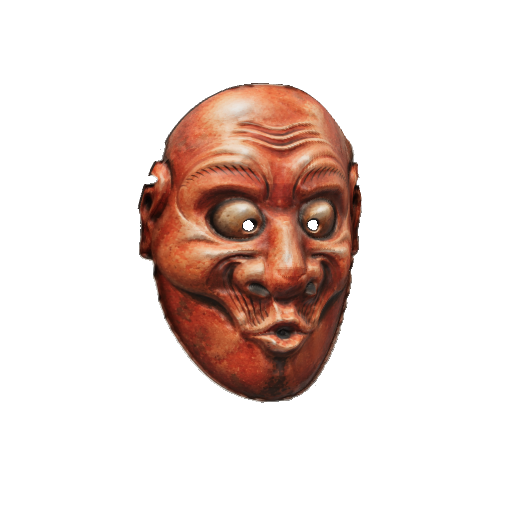
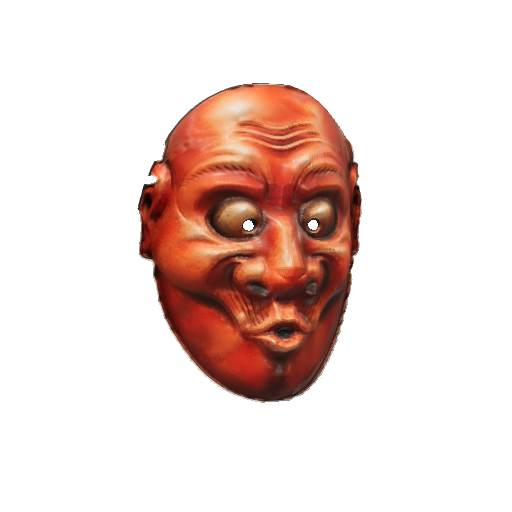
Make all masks clean and sharp: smooth lacquer paint, crisp texture, gloss
- Clean each painting once (tools/clean-refs.html -> assets/clean): an edge-preserving
  guided filter removes watercolour blotches and paper grain, keeps drawn lines sharp,
  and lifts colour back after the filmic tone curve
- Paint texture drawn at 1.5x resolution instead of being resampled
- Noise-free normal and roughness maps for painted masks
- Glossier lacquer clear-coat for crisp highlights
- Kitsune: no dark edge line across the ear bases

diff --git a/js/photo.js b/js/photo.js
@@ -39,6 +39,62 @@ function blur(a, n, r){
   return s;
 }
 
+// A box average of radius r, through a summed-area table (cost does not grow with r).
+function boxMean(src, W, H, r){
+  const S = new Float64Array((W + 1) * (H + 1)), out = new Float32Array(W * H), W1 = W + 1;
+  for (let y = 0; y < H; y++){
+    let row = 0;
+    for (let x = 0; x < W; x++){ row += src[y * W + x]; S[(y + 1) * W1 + x + 1] = S[y * W1 + x + 1] + row; }
+  }
+  for (let y = 0; y < H; y++){
+    const y0 = Math.max(0, y - r), y1 = Math.min(H, y + r + 1);
+    for (let x = 0; x < W; x++){
+      const x0 = Math.max(0, x - r), x1 = Math.min(W, x + r + 1);
+      out[y * W + x] = (S[y1 * W1 + x1] - S[y0 * W1 + x1] - S[y1 * W1 + x0] + S[y0 * W1 + x0]) / ((y1 - y0) * (x1 - x0));
+    }
+  }
+  return out;
+}
+// Cleans the watercolour: an edge-preserving smooth (a guided filter, steered by the
+// painting's own brightness) flattens the blotches and paper grain inside each area of
+// colour but keeps the drawn edges (brows, eye lines, lips, hair strands) sharp; a light
+// unsharp mask then crisps those edges. The paint reads as smooth lacquer, not paper.
+export function cleanPaint(d, W, H, { r = 12, eps = 0.006, sharpen = 0.5, sat = 1.3, gamma = 1.12 } = {}){
+  const n = W * H, I = new Float32Array(n), ch = [new Float32Array(n), new Float32Array(n), new Float32Array(n)];
+  for (let p = 0, o = 0; p < n; p++, o += 4){
+    ch[0][p] = d[o] / 255; ch[1][p] = d[o + 1] / 255; ch[2][p] = d[o + 2] / 255;
+    I[p] = 0.3 * ch[0][p] + 0.55 * ch[1][p] + 0.15 * ch[2][p];
+  }
+  const mI = boxMean(I, W, H, r), II = new Float32Array(n);
+  for (let p = 0; p < n; p++) II[p] = I[p] * I[p];
+  const mII = boxMean(II, W, H, r), t = new Float32Array(n), a = new Float32Array(n), b = new Float32Array(n);
+  for (let c = 0; c < 3; c++){
+    const P = ch[c], mP = boxMean(P, W, H, r);
+    for (let p = 0; p < n; p++) t[p] = I[p] * P[p];
+    const mIP = boxMean(t, W, H, r);
+    for (let p = 0; p < n; p++){
+      const A = (mIP[p] - mI[p] * mP[p]) / (mII[p] - mI[p] * mI[p] + eps);
+      a[p] = A; b[p] = mP[p] - A * mI[p];
+    }
+    const ma = boxMean(a, W, H, r), mb = boxMean(b, W, H, r);
+    for (let p = 0; p < n; p++) t[p] = ma[p] * I[p] + mb[p];
+    const soft = boxMean(t, W, H, 2);
+    for (let p = 0, o = c; p < n; p++, o += 4){
+      const v = t[p] + sharpen * (t[p] - soft[p]);
+      d[o] = v < 0 ? 0 : v > 1 ? 255 : v * 255;
+    }
+  }
+  // the renderer's filmic tone curve greys out bright painted colour; a little more
+  // saturation and depth here brings it back to the painting's warmth on screen
+  for (let p = 0, o = 0; p < n; p++, o += 4){
+    const l = (0.3 * d[o] + 0.55 * d[o + 1] + 0.15 * d[o + 2]) / 255;
+    for (let c = 0; c < 3; c++){
+      const v = Math.pow(Math.max(0, l + (d[o + c] / 255 - l) * sat), gamma);
+      d[o + c] = v > 1 ? 255 : v * 255;
+    }
+  }
+}
+
 // spec: { src, eyes: [[px,py],[px,py]], chin: py (→ chinY cm), top: py, paper: tolerance,
 //         patches: [{ x, y, rx, ry, from: [px,py] }] (paint over bits, e.g. cords), relief: [fine, broad],
 //         clear: [[x0,y0,x1,y1]] (boxes where all paper colour is cut away) }
@@ -56,6 +112,8 @@ export async function loadPhoto(spec){
   }
   // the paper becomes transparent: compare with the paper colour from the corners
   const data = g.getImageData(0, 0, W, H), d = data.data;
+  // the shipped paintings are already cleaned (tools/clean-refs.html); `clean` redoes it live
+  if (spec.clean) cleanPaint(d, W, H, spec.clean === true ? {} : spec.clean);
   const paper = [0, 0, 0];
   for (const [x, y] of [[4, 4], [W - 5, 4], [4, H - 5], [W - 5, H - 5]]){ const o = (y * W + x) * 4; paper[0] += d[o] / 4; paper[1] += d[o + 1] / 4; paper[2] += d[o + 2] / 4; }
   const tol = spec.paper ?? 26;

diff --git a/js/build.js b/js/build.js
@@ -131,6 +131,7 @@ function paint(def, H, O, holes, size){
   const crackF = P.crackScale || 2.2, crackK = P.crack ?? 0.5, grainK = P.grain ?? 0.6;
   const holeT = holes.map((h) => ({ ...h, c: Math.cos(h.rot), s: Math.sin(h.rot) }));
   const R = rng(def.seed);
+  const photo = !!def.photo; // a painted mask: its surface stays clean lacquer, no gesso noise
   for (let py = 0; py < S; py++){
     const y = SPAN / 2 - (py + 0.5) * cm, gv = py * k2g - 0.5;
     for (let px = 0; px < S; px++){
@@ -163,13 +164,23 @@ function paint(def, H, O, holes, size){
       ad[o + 3] = alpha;
       // occlusion, roughness, metalness
       md[o] = 255 * (1 - 0.65 * smooth(0.02, 0.6, ocl));
-      md[o + 1] = Math.min(255, md[o + 1] + 40 * g + 22 * (patch - 0.5) + 30 * w);
+      md[o + 1] = Math.min(255, md[o + 1] + 40 * g + (photo ? 0 : 22 * (patch - 0.5)) + 30 * w);
       // fine relief: wood grain under the paint, crackle, gesso tooth
       const grain = (vnoise(x * 34, y * 1.4, def.seed + 3) - 0.5) * grainK;
-      hgt[py * S + px] = (dd[o] - 128) / 128 + grain * 0.35 - crackLine * 0.5 + (R() - 0.5) * 0.06 * (1 - metal);
+      hgt[py * S + px] = (dd[o] - 128) / 128 + grain * 0.35 - crackLine * 0.5 + (photo ? 0 : (R() - 0.5) * 0.06 * (1 - metal));
     }
   }
   A.g.putImageData(a, 0, 0);
+  // A painted mask keeps the painting's full sharpness: its colour is drawn again at a
+  // higher resolution (the painting itself, the spy-holes cut out), not resampled from S.
+  let albedo = A.c;
+  if (photo){
+    const HS = Math.min(2048, Math.round(S * 1.5)), Hc = canvas2d(HS);
+    def.paint(Hc.g, { H, O });
+    Hc.g.globalCompositeOperation = 'destination-out';
+    for (const h of holeT){ Hc.g.beginPath(); Hc.g.ellipse(h.x, h.y, h.rx, h.ry, h.rot, 0, Math.PI * 2); Hc.g.fill(); }
+    albedo = Hc.c;
+  }
   M.g.putImageData(m, 0, 0);
   // relief → tangent-space normals (y up, as three expects)
   const k = P.bump ?? 3;
@@ -184,11 +195,11 @@ function paint(def, H, O, holes, size){
   const B = document.createElement('canvas');
   B.width = B.height = 512;
   const bg = B.getContext('2d');
-  bg.drawImage(A.c, 0, 0, 512, 512);
+  bg.drawImage(albedo, 0, 0, 512, 512);
   const bd = bg.getImageData(0, 0, 512, 512);
   for (let i = 0; i < bd.data.length; i += 4){ const v = bd.data[i + 3]; bd.data[i] = bd.data[i + 1] = bd.data[i + 2] = v; bd.data[i + 3] = 255; }
   bg.putImageData(bd, 0, 0);
-  return { albedo: A.c, orm: M.c, normal: D.c, alpha: B };
+  return { albedo, orm: M.c, normal: D.c, alpha: B };
 }
 function crackleAt(x, y, seed){
   const ix = Math.floor(x), iy = Math.floor(y);
@@ -296,7 +307,9 @@ export function buildMask(def, { maxAniso = 4, size = TEX } = {}){
   const front = new THREE.MeshPhysicalMaterial({
     map, normalMap: nmap, roughnessMap: orm, metalnessMap: orm, aoMap: orm, aoMapIntensity: 0.85,
     roughness: 1, metalness: 1, alphaTest: 0.5, envMapIntensity: L.env ?? 0.55,
-    clearcoat: L.clearcoat ?? 0.15, clearcoatRoughness: L.ccRough ?? 0.4,
+    // painted masks get a crisp lacquer coat: tight highlights that show the carved form
+    clearcoat: def.photo ? Math.max(L.clearcoat ?? 0, 0.3) : L.clearcoat ?? 0.15,
+    clearcoatRoughness: def.photo ? Math.min(L.ccRough ?? 1, 0.22) : L.ccRough ?? 0.4,
     sheen: L.sheen ?? 0, sheenColor: new THREE.Color(L.sheenColor || '#ffffff'), sheenRoughness: 0.6,
   });
   const back = new THREE.MeshStandardMaterial({ color: L.back || '#2a170c', roughness: 0.5, metalness: 0.05, alphaMap: amap, alphaTest: 0.5 });

diff --git a/js/masks.js b/js/masks.js
@@ -36,9 +36,10 @@ const cheeks = (a = 0.42, x = 3.6, y = -1.3, s = 1.8) => sym(blob(x, y, s, s, a)
 // ------------------------------------------------------------------ the masks
 // Pixel positions below are read off the paintings: the pupils (or, for the masks with
 // close-set painted eyes, the eyes plus an `eyeSpan`), the top of the head and the chin.
-const refSrc = (id) => new URL(`../assets/refs/${id}.jpg`, import.meta.url).href;
+// the paintings as shipped: cleaned of watercolour blotches by tools/clean-refs.html
+const refSrc = (id) => new URL(`../assets/clean/${id}.jpg`, import.meta.url).href;
 const relief = (def) => ({ k: 'fn', fn: (x, y) => def.photoData.relief(x, y) });
-const PHOTO_LOOK = { grimeK: 0.12, wearK: 0, mottle: 0, crack: 0, grain: 0.08, bump: 1.4 };
+const PHOTO_LOOK = { grimeK: 0.12, wearK: 0, mottle: 0, crack: 0, grain: 0, bump: 1.4 };
 // A thin shell standing off the face (a fox ear), painted from the reference where it sits.
 // `flatAt`: take the depth at that x across the whole width, so the part faces forward
 // instead of following the head round (the monkey's ears).
@@ -75,7 +76,15 @@ const KITSUNE = {
     ...sym(blob(3.9, -1.6, 1.7, 1.6, 0.45)),
     blob(0, -7.0, 1.4, 1.4, 0.3),
   ],
-  paint(g){ drawPhoto(g, KITSUNE.photoData); },
+  paint(g){
+    const P = KITSUNE.photoData;
+    drawPhoto(g, P);
+    // above the ear bases the ear parts carry the painting, so the shell's own edge never
+    // cuts across painted ears as a dark line
+    g.save(); g.globalCompositeOperation = 'destination-out'; g.beginPath();
+    for (const [px, py] of [[0, -50], [0, 640], [70, 598], [200, 445], [330, 330], [385, 292], [427, 278], [470, 292], [525, 330], [655, 445], [785, 598], [853, 640], [853, -50]]) g.lineTo(...P.toCm(px, py));
+    g.fill(); g.restore();
+  },
   extras(group, ctx){
     const P = KITSUNE.photoData, mat = photoMaterial(ctx.THREE, P, { roughness: 0.68 });
     for (const s of [1, -1]){ // the ears, from the painting

diff --git a/tools/clean-refs.html b/tools/clean-refs.html
@@ -1,0 +1,26 @@
+<!doctype html>
+<html lang="en"><head><meta charset="utf-8"><meta name="viewport" content="width=device-width,initial-scale=1">
+<title>Noh Masks — clean references</title>
+<style>body{margin:0;padding:12px;background:#ecdfc6;color:#3b2a1c;font:13px/1.5 ui-monospace,Consolas,monospace}</style>
+</head><body>
+<p>Cleans each painting in <code>assets/refs/</code> (edge-preserving smooth, crisp edges, colour lift; <code>js/photo.js</code> cleanPaint) and writes <code>assets/clean/&lt;id&gt;.jpg</code> through <code>tools/serve.ps1</code>. The masks load these.</p>
+<pre id="log"></pre>
+<script type="module">
+import { cleanPaint } from '../js/photo.js';
+const ids = ['kojo', 'chujo', 'koomote', 'hannya', 'buaku', 'usofuki', 'saru', 'kitsune'];
+const log = (s) => { document.getElementById('log').textContent += s + '\n'; };
+for (const id of ids){
+  const img = new Image(); img.src = `../assets/refs/${id}.jpg`;
+  await new Promise((ok, no) => { img.onload = ok; img.onerror = no; });
+  const c = document.createElement('canvas'); c.width = img.naturalWidth; c.height = img.naturalHeight;
+  const g = c.getContext('2d', { willReadFrequently: true }); g.drawImage(img, 0, 0);
+  const data = g.getImageData(0, 0, c.width, c.height);
+  cleanPaint(data.data, c.width, c.height);
+  g.putImageData(data, 0, 0);
+  // toDataURL, not toBlob: toBlob can stall while the tab is in the background
+  const blob = await (await fetch(c.toDataURL('image/jpeg', 0.93))).blob();
+  const res = await fetch(`/__save?name=${encodeURIComponent(`assets/clean/${id}.jpg`)}`, { method: 'POST', body: blob });
+  log(`${id}.jpg ${res.ok ? 'saved' : 'FAILED ' + res.status} (${Math.round(blob.size / 1024)} KB)`);
+}
+window.__done = true;
+</script></body></html>

diff --git a/README.md b/README.md
@@ -37,7 +37,7 @@ same stage. Made for ages 8–14.
 | 07 | **Saru** | 猿 | Kyogen | monkey | an olive fur cap with a widow's peak and fur down the sides, a beige face, red-rimmed round eyes, a split muzzle and a wide smile, red ears |
 | 08 | **Kitsune** | 狐 | Kyogen | fox | weathered cream lacquer, a red flame on the brow, red-lined amber eyes, black whiskers, a black nose, a curling red smile, tall ears with red insides |
 
-The look of each mask follows the reference paintings supplied for this project. **All eight masks are those paintings themselves** (`assets/refs/`): each is lined up so its pupils sit on the wearer's eyes, projected onto the carved shell from the front, and its light and shade carve the shell too, so from the front the mask is the painting and from the side it has depth. The paper is cut away, the cords are painted out, and Hannya's horns, the fox's ears and the monkey's ears are separate solids painted from the same picture (`js/photo.js`). Every fact in the app is sourced in [SOURCES.md](SOURCES.md).
+The look of each mask follows the reference paintings supplied for this project. **All eight masks are those paintings themselves** (`assets/refs/`): each is lined up so its pupils sit on the wearer's eyes, projected onto the carved shell from the front, and its light and shade carve the shell too, so from the front the mask is the painting and from the side it has depth. Before use, each painting is cleaned (`tools/clean-refs.html` → `assets/clean/`): an edge-preserving smooth takes out the watercolour blotches and paper grain while keeping every drawn line sharp, so the paint reads as smooth lacquer. The paper is cut away, the cords are painted out, and Hannya's horns, the fox's ears and the monkey's ears are separate solids painted from the same picture (`js/photo.js`). Every fact in the app is sourced in [SOURCES.md](SOURCES.md).
 
 ### What makes them look real
 
@@ -47,16 +47,17 @@ No 3D model files are downloaded: each mask is built in the browser from its pai
   model), a few millimetres off the skin. The painting's light and shade add relief on
   top, and a few carved features add what a painting cannot: a nose that stands out,
   bulging eyeballs, cheeks and a mouth set back. Spy-holes are cut where the pupils are.
-- **The paint.** The painting is projected onto the shell from the front, with the
-  paper cut away, into a texture set (colour, occlusion, roughness and a normal map).
-  The material uses `MeshPhysicalMaterial` with a light lacquer clear-coat, filmic tone
-  mapping and a studio environment for reflections.
+- **The paint.** The cleaned painting is projected onto the shell from the front, with the
+  paper cut away, at 1.5× the resolution of the other maps so it stays sharp, into a
+  texture set (colour, occlusion, roughness and a noise-free normal map). The material
+  uses `MeshPhysicalMaterial` with a glossy lacquer clear-coat, filmic tone mapping and a
+  studio environment for reflections.
 - **Room light.** Twice a second the camera image is sampled. Exposure and fill light
   then ease toward the room's brightness and colour, so the mask matches your lighting.
 - **Extra parts.** Hannya's horns, the fox's ears and the monkey's ears are separate
   solids, painted from the same picture.
 
-Phones use 896 px textures, so a mask takes about a second to carve. The three most
+Phones use 896 px maps (1,344 px for the paint), so a mask takes a second or two to carve. The three most
 recently used masks are kept ready.
 
 ## The Anatomy look
@@ -94,6 +95,7 @@ in the same sepia theme as Ramen_Builder:
 | `js/look.js` | Lighting, environment, tone mapping and room-light matching. |
 | `js/data.js` | Names, kanji, roles, kid-friendly blurbs and facts. |
 | `tools/mask-sheet.html` | Renders every mask. `?id=hannya&yaw=0.5` shows one up close. `?save=1` rewrites `assets/thumbs/`. |
+| `tools/clean-refs.html` | Cleans the paintings in `assets/refs/` (edge-preserving smooth, crisp edges, colour lift) and writes `assets/clean/`, which the masks load. |
 | `tools/compare.html` | Renders each mask beside its reference painting from `tools/refs/<id>.jpg` (the references are kept out of git). |
 | `tools/fit-check.html` | Shows a mask on MindAR's face model (side, front, and with the jaw dropped through the skinning) and prints how far it sits from the face. |
 | `js/photo.js` | Turns a reference painting into a mask: lines it up on the face, cuts away the paper, paints out cords, carves relief from its shading, and paints parts (horns, ears) from it. |
